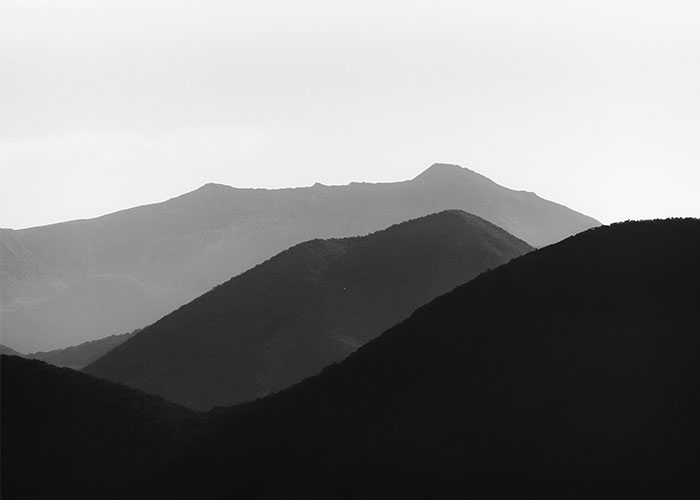
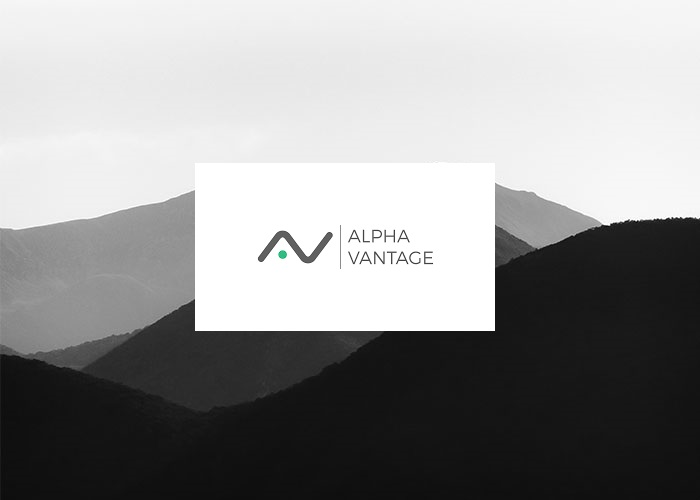
Front-end updates.

Changed region(s): [[0.27, 0.33, 0.72, 0.66]]

diff --git a/index.html b/index.html
@@ -88,17 +88,16 @@ path {
       <div class="container">
         <div class="row">
           <div class="col-lg-8 mx-auto">
-            <h2 class="text-white mb-4">How does it work?</h2>
-              <p class="text-white-50">Stocked utilizes the Alpha Vantage API to pull the most recent prices for stocks.
+            <h2 class="text-white mb-4">Stocked?</h2>
+              <p class="text-white-50">Stocked provides a clean and simple user interface for viewing market updates.
+                <br>
+                <br>
+                <img src="img/example.png" class="img-fluid" alt="">
+                <br>
+                <br>
+                Written in JavaScript and HTML using Bootstrap, D3.js, and the Alpha Vantage API.
               <br>
               <br>
-              <img src="img/alphavantage.png" class="img-fluid" alt="">
-              <br>
-              <br>
-              D3.js is used to visualize the stock's performance with graphs and statistical figures.
-              <br>
-              <br>
-              <img src="img/d3.png" class="img-fluid" alt="">
             </div>
           </div>
         </div>
@@ -136,8 +135,8 @@ path {
             <div class="bg-black text-center h-100 project">
               <div class="d-flex h-100">
                 <div class="project-text w-100 my-auto text-center text-lg-left">
-                  <h4 class="text-white">Misty</h4>
-                  <p class="mb-0 text-white-50">An example of where you can put an image of a project, or anything else, along with a description.</p>
+                  <h4 class="text-white">Alpha Vantage</h4>
+                  <p class="mb-0 text-white-50">Stocked uses Alpha Vantage to obtain realtime and historical stock data.</p>
                   <hr class="d-none d-lg-block mb-0 ml-0">
                 </div>
               </div>
@@ -154,8 +153,8 @@ path {
             <div class="bg-black text-center h-100 project">
               <div class="d-flex h-100">
                 <div class="project-text w-100 my-auto text-center text-lg-right">
-                  <h4 class="text-white">Mountains</h4>
-                  <p class="mb-0 text-white-50">Another example of a project with its respective description. These sections work well responsively as well, try this theme on a small screen!</p>
+                  <h4 class="text-white">D3.js</h4>
+                  <p class="mb-0 text-white-50">Stocked uses D3.js to create graphs from raw data.</p>
                   <hr class="d-none d-lg-block mb-0 mr-0">
                 </div>
               </div>
